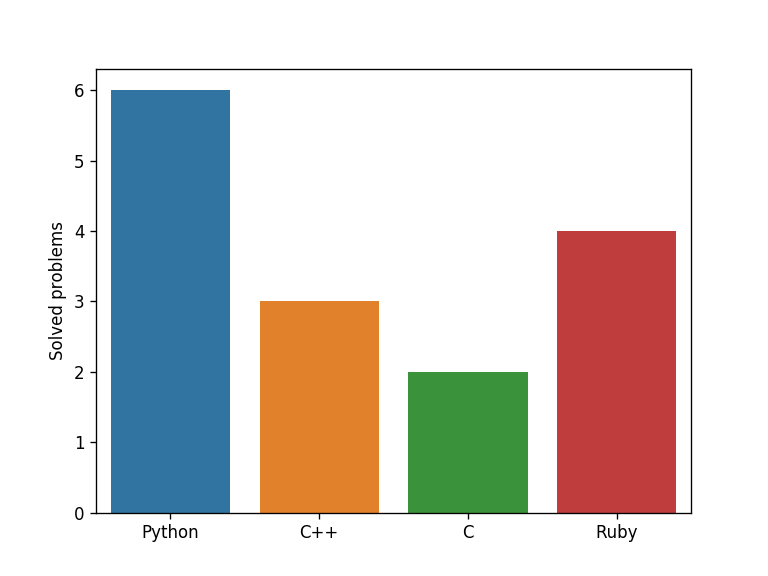
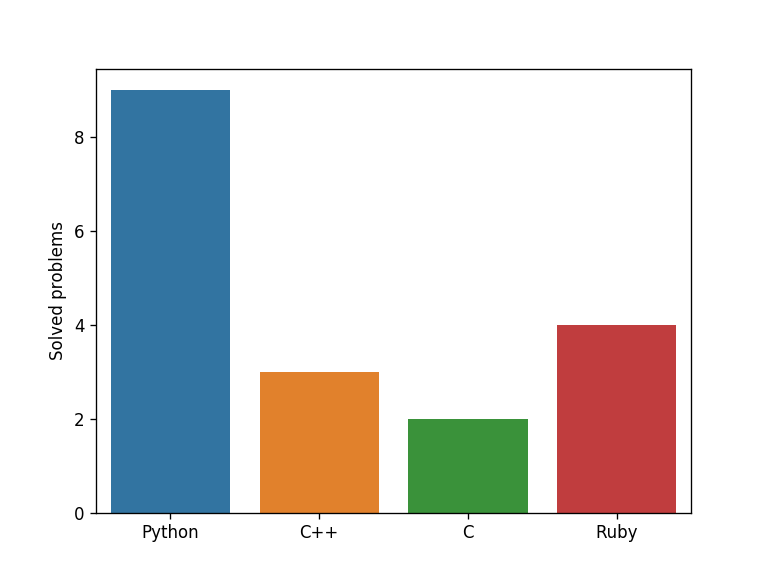
Problems 18 and 67

diff --git a/problems/018_maximum_path_sum_I.py b/problems/018_maximum_path_sum_I.py
@@ -1,0 +1,46 @@
+import networkx as nx
+
+pyramid = '''
+75
+95 64
+17 47 82
+18 35 87 10
+20 04 82 47 65
+19 01 23 75 03 34
+88 02 77 73 07 63 67
+99 65 04 28 06 16 70 92
+41 41 26 56 83 40 80 70 33
+41 48 72 33 47 32 37 16 94 29
+53 71 44 65 25 43 91 52 97 51 14
+70 11 33 28 77 73 17 78 39 68 17 57
+91 71 52 38 17 14 91 43 58 50 27 29 48
+63 66 04 68 89 53 67 30 73 16 69 87 40 31
+04 62 98 27 23 09 70 98 73 93 38 53 60 04 23
+'''.split('\n')[1:-1]
+
+pyramid = [line.split() for line in pyramid]
+height = len(pyramid) - 1
+G = nx.DiGraph()
+
+for h in range(height):
+    for i in range(len(pyramid[h])):
+        top = pyramid[h][i]
+        bottom_left = pyramid[h+1][i]
+        bottom_right = pyramid[h+1][i+1]
+        name_top = f'{h}_{i}'
+        name_bottom_left = f'{h+1}_{i}'
+        name_bottom_right = f'{h+1}_{i+1}'
+        if h == height - 1:
+            G.add_edge(name_bottom_left, name_top, weight=int(top) + int(bottom_left))
+            G.add_edge(name_bottom_right, name_top, weight=int(top) + int(bottom_right))
+        else:
+            G.add_edge(name_bottom_left, name_top, weight=int(top))
+            G.add_edge(name_bottom_right, name_top, weight=int(top))
+
+        #print(f'{bottom_left}->{top} & {bottom_right}->{top}')
+
+path = nx.algorithms.dag.dag_longest_path(G)
+length = nx.algorithms.dag.dag_longest_path_length(G)
+print(path)
+print(length)
+

diff --git a/problems/067_maximum_path_sum_II.py b/problems/067_maximum_path_sum_II.py
@@ -1,0 +1,31 @@
+import networkx as nx
+
+with open('data/p067_triangle.txt') as f:
+    pyramid = f.read().split('\n')
+
+pyramid = [line.split() for line in pyramid]
+height = len(pyramid) - 1
+G = nx.DiGraph()
+
+for h in range(height):
+    for i in range(len(pyramid[h])):
+        top = pyramid[h][i]
+        bottom_left = pyramid[h+1][i]
+        bottom_right = pyramid[h+1][i+1]
+        name_top = f'{h}_{i}'
+        name_bottom_left = f'{h+1}_{i}'
+        name_bottom_right = f'{h+1}_{i+1}'
+        if h == height - 1:
+            G.add_edge(name_bottom_left, name_top, weight=int(top) + int(bottom_left))
+            G.add_edge(name_bottom_right, name_top, weight=int(top) + int(bottom_right))
+        else:
+            G.add_edge(name_bottom_left, name_top, weight=int(top))
+            G.add_edge(name_bottom_right, name_top, weight=int(top))
+
+        #print(f'{bottom_left}->{top} & {bottom_right}->{top}')
+
+path = nx.algorithms.dag.dag_longest_path(G)
+length = nx.algorithms.dag.dag_longest_path_length(G)
+print(path)
+print(length)
+

diff --git a/problems/020_factorial_digit_sum.py b/problems/020_factorial_digit_sum.py
@@ -1,0 +1,3 @@
+import math
+
+print(sum(int(_) for _ in str(math.factorial(100))))
